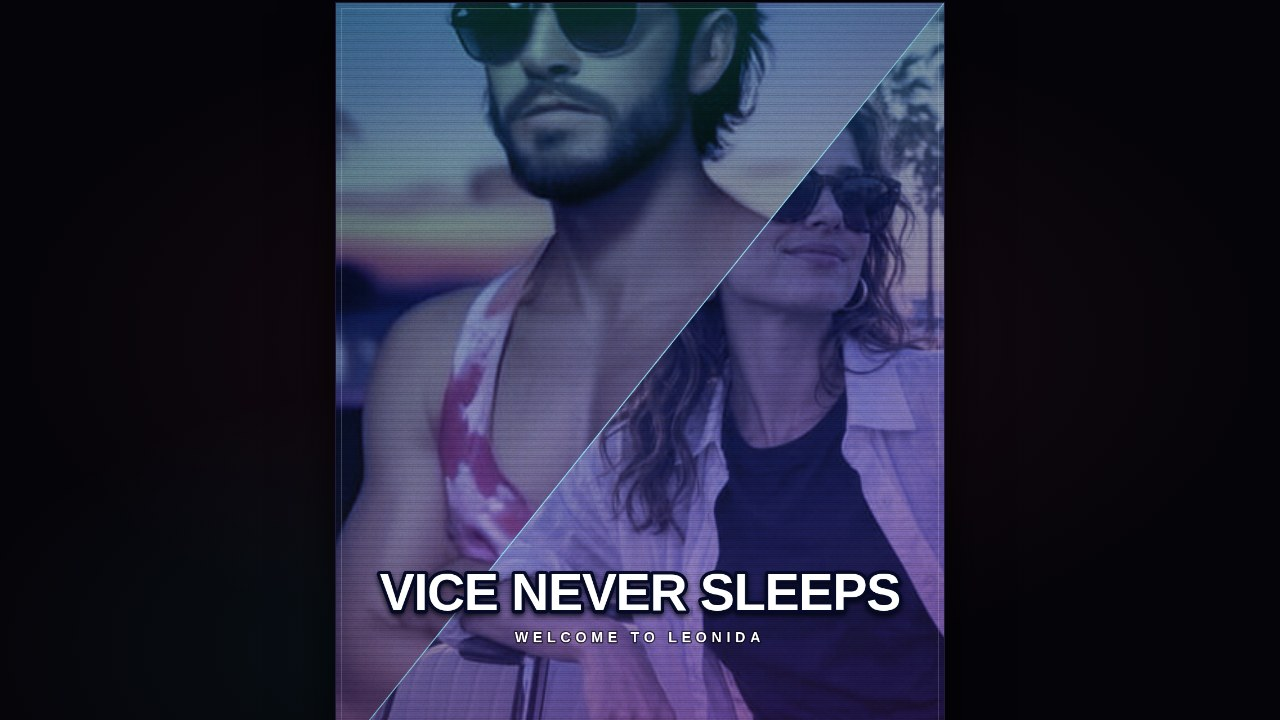
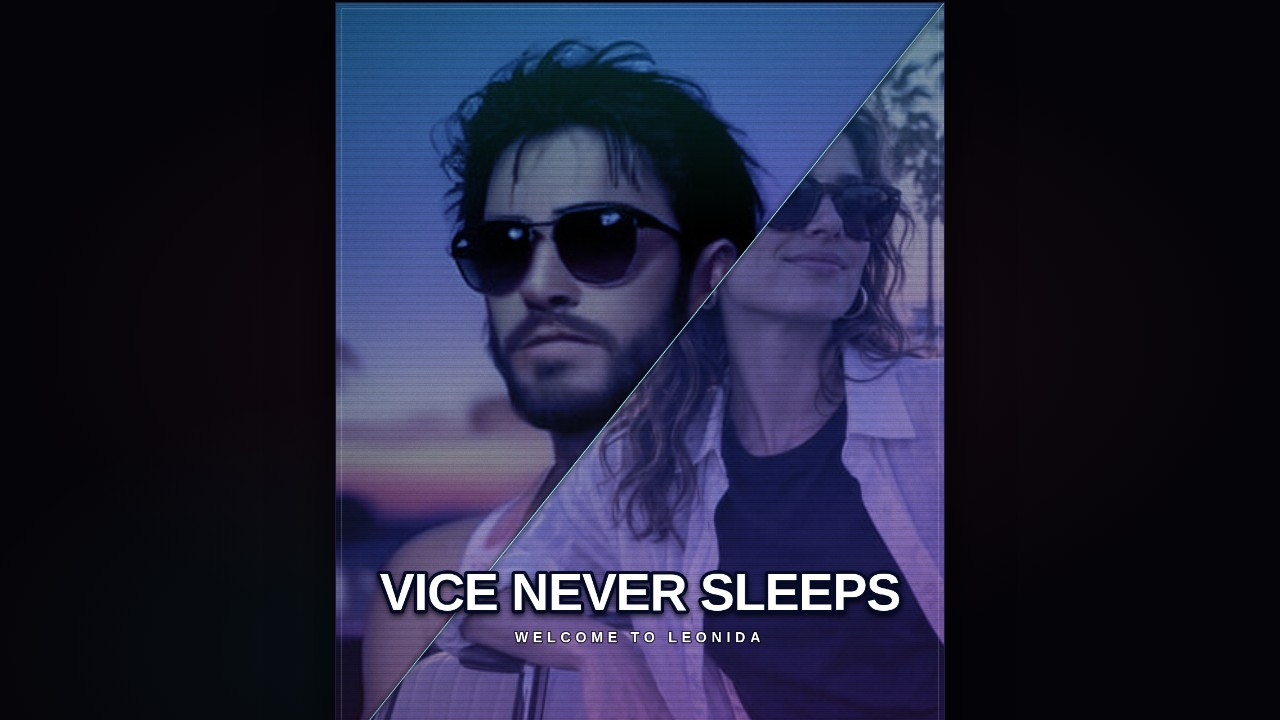
diagonal layout: headroom default crop + feathered seam, re-shot square/portrait

diff --git a/app/app.js b/app/app.js
@@ -113,7 +113,13 @@ const state = {
   activePanel: 0,
 };
 
-const newPanel = () => ({ photoId: null, zoom: 1.2, ox: 0, oy: 0, flip: false });
+// Diagonal panels default to a headroom-friendly crop: no extra zoom and the photo
+// top-aligned (oy +1) so a portrait subject's head sits fully inside the frame with the
+// photo's own space above it, instead of the diagonal clip eating the top edge. Zoom below
+// 1.0 would letterbox, because the diag2 bbox is the full canvas; 1.0 + oy 1 is the floor.
+const newPanel = () => (state.layout === 'diag2'
+  ? { photoId: null, zoom: 1.0, ox: 0, oy: 1, flip: false }
+  : { photoId: null, zoom: 1.2, ox: 0, oy: 0, flip: false });
 
 /** The panels of the current layout, st.panels[i] filled to length. */
 function panelStates() {
@@ -246,6 +252,28 @@ function applyGrade(ctx, w, h, grade) {
   ctx.globalAlpha = 1;
 }
 
+/** diag2 only: a soft dark feather band along the diagonal seam so the two halves blend
+ * instead of colliding. A linear gradient runs perpendicular to the seam, transparent at
+ * the band edges, darkest at the divider line itself, which is drawn on top after. */
+function drawDiagonalFeather(ctx, w, h) {
+  if (state.layout !== 'diag2') return;
+  // Seam from (0,h) to (w,0); unit normal (h,w)/L.
+  const L = Math.hypot(w, h);
+  const nx = h / L;
+  const ny = w / L;
+  const s = Math.max(8, (w / 1080) * 12); // ~12px half-band at export size
+  const g = ctx.createLinearGradient(w / 2 - nx * s, h / 2 - ny * s, w / 2 + nx * s, h / 2 + ny * s);
+  g.addColorStop(0, 'rgba(0,0,0,0)');
+  g.addColorStop(0.35, 'rgba(0,0,0,0.18)');
+  g.addColorStop(0.5, 'rgba(0,0,0,0.5)');
+  g.addColorStop(0.65, 'rgba(0,0,0,0.18)');
+  g.addColorStop(1, 'rgba(0,0,0,0)');
+  ctx.save();
+  ctx.fillStyle = g;
+  ctx.fillRect(0, 0, w, h);
+  ctx.restore();
+}
+
 /** Bold 1-3px panel dividers (neon glow on the neon grade) plus a faint outer frame. */
 function drawDividers(ctx, w, h, grade) {
   const segs = DIVIDERS[state.layout] ?? [];
@@ -257,7 +285,8 @@ function drawDividers(ctx, w, h, grade) {
   ctx.lineJoin = 'round';
   if (grade === 'neon') {
     ctx.shadowColor = 'rgba(65,240,255,0.95)';
-    ctx.shadowBlur = lw * 3.5;
+    // A tighter glow on the diagonal layout so the seam feather stays visible.
+    ctx.shadowBlur = lw * (state.layout === 'diag2' ? 2.0 : 3.5);
   }
   for (const [a, b] of segs) {
     ctx.beginPath();
@@ -387,6 +416,7 @@ function renderCover(ctx, w, h, st) {
   regions.forEach((region, i) => drawPanel(ctx, w, h, region, panels[i]));
   ctx.restore();
   applyGrade(ctx, w, h, st.grade);
+  drawDiagonalFeather(ctx, w, h);
   drawDividers(ctx, w, h, st.grade);
   if (st.vignette) drawVignette(ctx, w, h);
   if (st.grain) drawGrain(ctx, w, h);
@@ -672,7 +702,9 @@ function applyShotStaging() {
   if (state.size === 'square') {
     state.layout = 'diag2';
     state.panels = [
-      { photoId: 'boardwalk', zoom: 1.3, ox: -1, oy: -1 },
+      // Headroom defaults: both photos top-aligned (oy 1) so faces sit fully inside the
+      // frame with space above; the zooms keep the subjects clear of the seam.
+      { photoId: 'boardwalk', zoom: 1.6, ox: -0.75, oy: 1 },
       { photoId: 'cruiser', zoom: 1.25, ox: 1, oy: 1 },
     ];
     state.caption = 'LEONIDA NIGHTS';
@@ -682,8 +714,8 @@ function applyShotStaging() {
   } else if (state.size === 'portrait') {
     state.layout = 'diag2';
     state.panels = [
-      { photoId: 'cruiser', zoom: 1.32, ox: -0.35, oy: -0.9 },
-      { photoId: 'boulevard', zoom: 1.35, ox: 0.95, oy: 0.95 },
+      { photoId: 'cruiser', zoom: 1.32, ox: -0.35, oy: 1 },
+      { photoId: 'boulevard', zoom: 1.35, ox: 0.95, oy: 1 },
     ];
     state.caption = 'VICE NEVER SLEEPS';
     state.subtitle = 'WELCOME TO LEONIDA';
